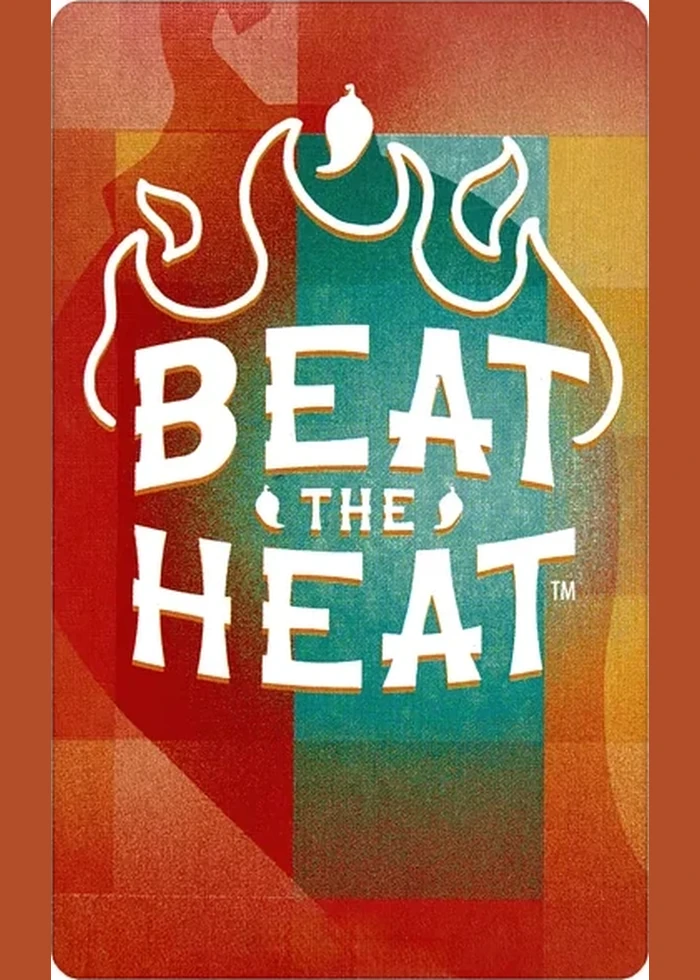
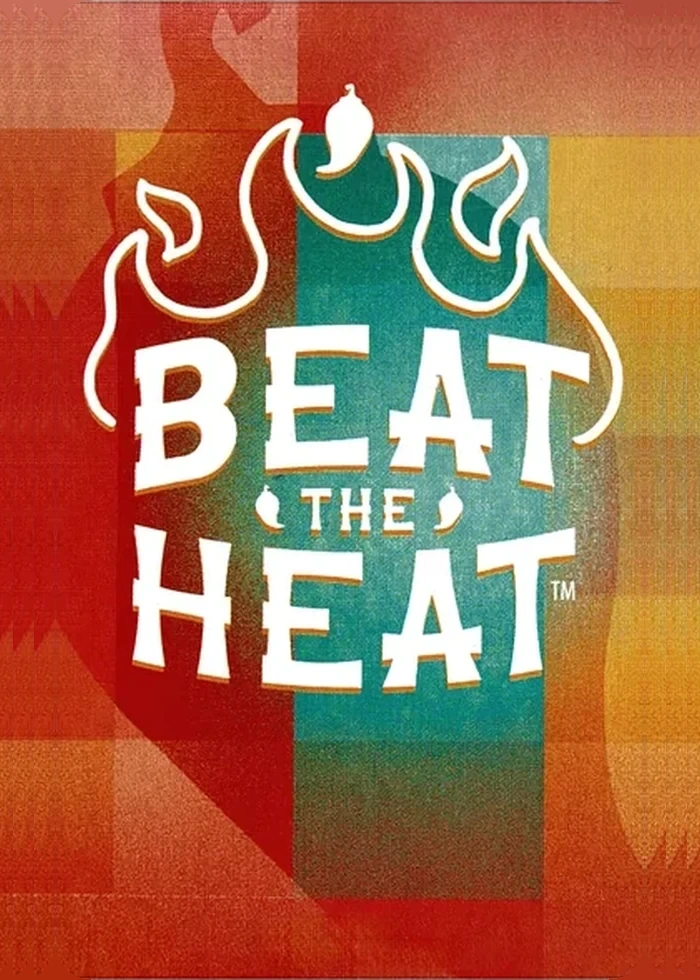
Make Rook and Heat fills the default and draw a designed Five Crowns back.
Matt asked for the edge-filled Rook and Beat the Heat faces as the picker default, leftover subject ghosts cleaned from those pads, and a clean vector Five Crowns back from his photo instead of a retouch. The cardfill flag and padded faces are gone. Five Crowns is an SVG raster at Canasta polish: purple lattice, gold-edged band, sideways mark, no copyright.

Changed region(s): [[0.87, 0.0, 1.0, 1.0], [0.0, 0.0, 0.12, 1.0]]

diff --git a/public/assets/slice2.js b/public/assets/slice2.js
@@ -1,27 +1,13 @@
 /* Warm Porch Ledger interactions. Always loaded. */
 (function () {
-  function cardFillOn() {
-    try {
-      const params = new URLSearchParams(location.search);
-      if (!params.has('cardfill')) return false;
-      const host = location.hostname || '';
-      if (host === 'cardknight.vercel.app') return false;
-      return host === 'localhost' || host === '127.0.0.1' || host === '::1'
-        || /^.+-mattwilliamsproducts-projects\.vercel\.app$/.test(host);
-    } catch (error) {
-      return false;
-    }
-  }
-
-  const CARD_FILL = cardFillOn();
   const CARD_FACES = {
     five: './assets/cards/five-crowns.webp',
     '818': './assets/cards/818.webp',
     wizard: './assets/cards/wizard.webp',
     flip7: './assets/cards/flip7.webp',
-    heat: CARD_FILL ? './assets/cards/fill/beat-the-heat.webp' : './assets/cards/beat-the-heat.webp',
+    heat: './assets/cards/beat-the-heat.webp',
     canasta: './assets/cards/canasta.webp',
-    rook: CARD_FILL ? './assets/cards/fill/rook.webp' : './assets/cards/rook.webp'
+    rook: './assets/cards/rook.webp'
   };
 
   function registryGames() {

diff --git a/scripts/fill-card-faces.py b/scripts/fill-card-faces.py
@@ -1,8 +1,8 @@
 #!/usr/bin/env python3
 """Extend Rook / Beat the Heat to a full 5:7 face without stretching.
 
-Keeps the default padded webps. Writes preview-only fills to public/assets/cards/fill/.
-Rook tiles the teal clover from a clean top sample. Heat continues edge color and grain.
+Writes cleaned 700x980 defaults. Uses only background pixels on the pads
+so subject bits (crow tail, pepper flame) do not repeat at the edge.
 """
 
 from pathlib import Path
@@ -10,7 +10,7 @@ from PIL import Image
 import numpy as np
 
 ROOT = Path(__file__).resolve().parents[1] / "public/assets/cards"
-OUT = ROOT / "fill"
+OUT = ROOT
 TARGET = (700, 980)
 
 SPECS = {
@@ -94,15 +94,16 @@ def inpaint(img, mask, radius=10, passes=3):
 
 
 def rook_bg(img):
-    lum = img.mean(axis=2)
     rgb = img.astype(np.int16)
-    dark = lum < 78
-    yellow = (rgb[:, :, 0] > 168) & (rgb[:, :, 1] > 138) & (rgb[:, :, 0] > rgb[:, :, 2] + 24)
-    return ~(dark | yellow)
+    r, g, b = rgb[:, :, 0], rgb[:, :, 1], rgb[:, :, 2]
+    teal = (g > r + 28) & (b > r + 36) & (g > 90) & (b > 120)
+    return teal
 
 
 def heat_bg(img):
-    return ~near_white(img, floor=210, spread=36)
+    lum = img.mean(axis=2)
+    subject = near_white(img, floor=188, spread=55) | (lum > 178)
+    return ~subject
 
 
 def fill_corners(content, radius, white_floor):
@@ -147,8 +148,8 @@ def extend_rook(content, src_l, src_r, period):
     canvas[:, src_l:src_r] = content
     bg = rook_bg(content)
     for y in range(h):
-        left = clean_strip(content[y, :110], bg[y, :110])
-        right = clean_strip(content[y, w - 42 :], bg[y, w - 42 :])
+        left = clean_strip(content[y, :80], bg[y, :80])
+        right = clean_strip(content[y, w - 36 :], bg[y, w - 36 :])
         extend_from_strip(canvas, y, left, 0, src_l, seam_on_right=False)
         extend_from_strip(canvas, y, right, src_r, TARGET[0], seam_on_right=True)
     return canvas
@@ -160,8 +161,8 @@ def extend_heat(content, src_l, src_r, band=20):
     canvas[:, src_l:src_r] = content
     bg = heat_bg(content)
     for y in range(h):
-        left = clean_strip(content[y, :28], bg[y, :28])
-        right = clean_strip(content[y, w - 28 :], bg[y, w - 28 :])
+        left = clean_strip(content[y, :22], bg[y, :22])
+        right = clean_strip(content[y, w - 22 :], bg[y, w - 22 :])
         extend_from_strip(canvas, y, left, 0, src_l, seam_on_right=False)
         extend_from_strip(canvas, y, right, src_r, TARGET[0], seam_on_right=True)
     return canvas
@@ -174,9 +175,20 @@ def extend(arr, spec):
     content = fill_corners(arr[top:bot, src_l:src_r].copy(), spec["radius"], spec["white_floor"])
     if spec["kind"] == "rook":
         canvas = extend_rook(content, src_l, src_r, spec["period"])
+        canvas = scrub_pad(canvas, src_l, src_r, rook_bg)
     else:
         canvas = extend_heat(content, src_l, src_r, spec["period"])
+        canvas = scrub_pad(canvas, src_l, src_r, heat_bg)
     return canvas, (src_l, src_r)
+
+
+def scrub_pad(canvas, src_l, src_r, bg_fn):
+    """Replace leftover subject pixels in the side pads with nearby background."""
+    bg = bg_fn(canvas)
+    pad = np.zeros(bg.shape, dtype=bool)
+    pad[:, :src_l] = True
+    pad[:, src_r:] = True
+    return inpaint(canvas, pad & ~bg, radius=14, passes=4)
 
 
 def save_debug(name, before, after, seams):

diff --git a/scripts/fit-card-faces.py b/scripts/fit-card-faces.py
@@ -94,7 +94,7 @@ def pad_to_target(im, fill, cover=False):
 
 FACE_OPTS = {
     "wizard.webp": {"body": "navy", "cover": True, "fill": (8, 18, 72, 255)},
-    "five-crowns.webp": {"extra_inset": (0, 0, 14, 0), "fill": (95, 47, 130, 255)},
+    "five-crowns.webp": {"designed": True},
 }
 
 
@@ -108,6 +108,11 @@ def main():
         im = Image.open(src)
         print(f"{name:22} in {im.size[0]}x{im.size[1]} {im.mode}")
         opts = FACE_OPTS.get(name, {})
+        if opts.get("designed"):
+            if im.size != TARGET:
+                raise SystemExit(f"{name} designed face is {im.size}, expected {TARGET}")
+            print(f"{name:22} designed {im.size[0]}x{im.size[1]} (no trim)")
+            continue
         trimmed = trim_card(
             im,
             keep_white=bool(opts.get("keep_white")),

diff --git a/AGENTS.md b/AGENTS.md
@@ -44,7 +44,7 @@ North star: crush requirements so one-shots get better every correction.
 - A hidden scorecard column is not a deleted hand. If Pace or the column trim removes the hand a Life Preserver followed, the mark sits with Total. Place ties use the same numeric comparison as the sort, including numeric strings. See `docs/solutions/scorecard-places-and-life-preserver.md`.
 - Life Preserver labels stay inside every slice. About 20-40 equal-ish pockets. Category shares stay exact via subtle widths; the draw still uses the live 45/30/5/12/8 table. No callouts, leader lines, or casino red/black. Cute cream/teal toy roulette, not casino chrome. Size the modal from leftover viewport so Use Your One Spin stays on screen. Proposed 30/45/10/15 amounts stay behind `?demo&lp=proposed`. See `docs/solutions/rc1-lp-roulette-wheel.md`.
 - Laptop Home columns stretch to the same height. Seats are one per row and reorder in the list. Recent nights stays full width. Home reorder writes `players` only; it does not restack an active match. See `docs/solutions/home-recent-nights-column.md`.
-- Home picker faces are upright 5:7 cards with one shared outer size, ~10px radius, and a 220px TV cap. Faces are pre-padded 5:7 webps with `object-fit: cover`. No leftover porch tiles. No name or rule under the cards. Select, then Start. Lay out the Home columns first; cards take leftover space. Tonight's Table stays wide enough for first names. The Start bar stays inside the panel. Rook / Beat the Heat edge-fill previews stay behind `?demo&cardfill=1` until Matt picks. See `docs/solutions/card-picker.md`.
+- Home picker faces are upright 5:7 cards with one shared outer size, ~10px radius, and a 220px TV cap. Faces are pre-padded 5:7 webps with `object-fit: cover`. No leftover porch tiles. No name or rule under the cards. Select, then Start. Lay out the Home columns first; cards take leftover space. Tonight's Table stays wide enough for first names. The Start bar stays inside the panel. Rook / Beat the Heat defaults are the edge-filled faces. Five Crowns is the designed SVG raster, not a retouched photo. See `docs/solutions/card-picker.md`.
 - NAME-FIT uses one shared column size. Shrink for a long name. Do not grow a short name past that size. Saved is not a nav slot. Life Preserver header copy states the computed spin range; negative slices stay.
 - Bid accuracy uses the stored bid and actual on a played round. A missing bid or actual is unknown, not a guess from the score. A Life Preserver, including a zero-point spin, marks the match assisted until undo removes the last spin. A historical trick correction uses that round's players and must not replace a different live match. See `docs/solutions/data-integrity-records.md`.
 - A cloud revision or sync redesign waits for a named ticket or PR intent. This release is local-only: the client does not call `/api/sync`. `api/sync.js` and Redis `gamenight:backup:v1` stay untouched. `#37` stays parked. See `docs/solutions/rc1-local-only.md`.

diff --git a/docs/solutions/card-picker.md b/docs/solutions/card-picker.md
@@ -7,7 +7,8 @@ Matt's Home picker is seven upright 5:7 card backs. The cards speak for themselv
 - One shared `.s2-card-frame`: same 5:7 box, 10px radius, max 220px. Faces are exact 5:7 webps (`scripts/fit-card-faces.py`) drawn with `object-fit: cover`. No under-card labels.
 - The frame does not carry `s2-art-*`. Old porch/tropical tile backgrounds stay off the picker.
 - Faces live in `public/assets/cards/*.webp`. Select, then Start.
-- Rook and Beat the Heat defaults keep the current padded faces. Extended edge-fill versions live in `public/assets/cards/fill/` and load only on localhost/preview when `cardfill` is in the query (`?demo&cardfill=1`, or gallery `?gnqa=1&cardfill=1`). Do not stretch. The frame radius is the only corner.
+- Rook and Beat the Heat defaults are the edge-filled 5:7 faces. Pads use background only (teal clover / Heat field). Do not stretch. The frame radius is the only corner.
+- Five Crowns is a designed 700×980 SVG raster (`five-crowns.svg` → `five-crowns.webp`), drawn from Matt's photo: purple lattice, gold-edged band, sideways gold-and-red FIVE CROWNS mark, no copyright. Do not retouch the photo.
 - iPad landscape 1024×768 and TV 1920×1080 are the primary layouts (landscape iPad mirrored to TV). Portrait and phone must not break.
 - Columns first, then cards. Tonight's Table is 348–360px at 1024 so first names stay whole. The seven 5:7 cards take leftover space (4+3). The Start bar stays inside Start a New Match.
 - Tonight's Table rows keep their natural height. The table scrolls when the list is long. Four seated shows every chip. The seat grid never shrinks behind chips and never uses `1fr` rows.
@@ -19,5 +20,6 @@ Matt's Home picker is seven upright 5:7 card backs. The cards speak for themselv
 - Do not reintroduce `?demo&tapstart=1`.
 - Do not use fixed 220px columns that overflow the Start panel.
 - Do not let theme thumbs or dusk tiles show through beside a card face.
-- Do not replace the default Rook / Beat the Heat faces without Matt's side-by-side pick. Solid-color side pads and source-card white corners are a kill; extend the pattern instead of stretching.
+- Do not put the old padded Rook / Beat the Heat faces back. Solid-color side pads and source-card white corners are a kill; extend the pattern instead of stretching.
+- Do not retouch or straighten Matt's Five Crowns photo. The picker face is the designed SVG.
 - Do not shrink seat rows with `1fr` so they overlap, or flex-shrink the seat grid so seated people hide behind chips.

diff --git a/docs/taste.md b/docs/taste.md
@@ -11,6 +11,7 @@ Canonical list: [taste-ledger.md](taste-ledger.md). After every durable Matt cor
 ### Likes
 
 - A picker face fills the 5:7 frame edge to edge like a real card back. If the art is narrower, extend the repeating pattern or gradient — do not stretch, and do not leave a solid side strip. The frame radius is the only corner.
+- Five Crowns on the picker is the real back drawn clean: purple lattice, gold-edged band, sideways gold-and-red FIVE CROWNS mark. Canasta sets the polish. Matt's photo is the reference, not the face.
 - Home picker faces are exact 5:7 cards with cover, and nothing from the old porch tiles peeks beside them. Seat rows keep their height and scroll. 1024 landscape and 1920 TV are the layouts that matter.
 - Matt's 12:23 PM ET go to preview Canasta (Hand and Foot) on the RC1 picker, with house rules in one `CANASTA_RULES` object and Rook hidden unless `?demo&games=rook`.
 - Full two-line Canasta team names (`Megan &` / `Matt`) with no ellipsis, and the dusk Canasta tile used in both art sets until Matt picks a beach tile.
@@ -44,6 +45,7 @@ Canonical list: [taste-ledger.md](taste-ledger.md). After every durable Matt cor
 - A Home picker grid that overflows Start a New Match, or a dead band between the cards and Start at 1024 landscape.
 - A solid-color side pad or the source card's own white rounded corners showing inside the picker frame (Rook / Beat the Heat). Extend the background; do not stretch.
 - Old porch or tropical tiles showing through beside a picker face, or a white sliver on Five Crowns.
+- Retouching or straightening Matt's Five Crowns photo for the picker. Draw the back clean. Do not ship a generic red plaque that is not the Five Crowns mark.
 - Tonight's Table seat rows that compress, overlap, clip the dealer pill, hide seated people behind chips, or truncate names to an initial.
 - Calling ready without opening the real UI.
 - Ready-to-test language without a filled [prove-it packet](prove-it-packet.md).

diff --git a/docs/taste-ledger.md b/docs/taste-ledger.md
@@ -7,6 +7,7 @@ Seeded from Prefer, Avoid, and Kill in `docs/taste.md`. Product rules stay in `d
 ## Likes
 
 - A picker face fills the 5:7 frame edge to edge like a real card back. If the art is narrower, extend the repeating pattern or gradient — do not stretch, and do not leave a solid side strip. The frame radius is the only corner.
+- Five Crowns on the picker is the real back drawn clean: purple lattice, gold-edged band, sideways gold-and-red FIVE CROWNS mark. Canasta sets the polish. Matt's photo is the reference, not the face.
 - Home picker faces are exact 5:7 cards with cover, and nothing from the old porch tiles peeks beside them. Seat rows keep their height and scroll. 1024 landscape and 1920 TV are the layouts that matter.
 - Matt's 12:23 PM ET go to preview Canasta (Hand and Foot) on the RC1 picker, with house rules in one `CANASTA_RULES` object and Rook hidden unless `?demo&games=rook`.
 - Full two-line Canasta team names (`Megan &` / `Matt`) with no ellipsis, and the dusk Canasta tile used in both art sets until Matt picks a beach tile.
@@ -40,6 +41,7 @@ Seeded from Prefer, Avoid, and Kill in `docs/taste.md`. Product rules stay in `d
 - A Home picker grid that overflows Start a New Match, or a dead band between the cards and Start at 1024 landscape.
 - A solid-color side pad or the source card's own white rounded corners showing inside the picker frame (Rook / Beat the Heat). Extend the background; do not stretch.
 - Old porch or tropical tiles showing through beside a picker face, or a white sliver on Five Crowns.
+- Retouching or straightening Matt's Five Crowns photo for the picker. Draw the back clean. Do not ship a generic red plaque that is not the Five Crowns mark.
 - Tonight's Table seat rows that compress, overlap, clip the dealer pill, hide seated people behind chips, or truncate names to an initial.
 - Calling ready without opening the real UI.
 - Ready-to-test language without a filled `docs/prove-it-packet.md`.

diff --git a/docs/tech-spec.md b/docs/tech-spec.md
@@ -89,7 +89,7 @@ There is no framework and no per-player account. State is `localStorage` on the 
 - Shelf labels may say Flip 7. Stored game name is `Flip 7 Vengeance`.
 - Shelf labels say Canasta. Stored game name is `Hand and Foot`.
 - Rook is on the shelf (`hidden: false`). History still opens a saved Rook match.
-- Home picker faces live in `public/assets/cards/*.webp`. Shared outer size is 5:7 with a 10px radius and a 220px TV cap. Faces use `object-fit: cover`. Extended Rook / Beat the Heat fills live in `public/assets/cards/fill/` and load only when `cardfill` is on a localhost or preview host. Select then Start. No name under the cards.
+- Home picker faces live in `public/assets/cards/*.webp`. Shared outer size is 5:7 with a 10px radius and a 220px TV cap. Faces use `object-fit: cover`. Rook and Beat the Heat defaults are the edge-filled faces. Five Crowns is rasterized from `public/assets/cards/five-crowns.svg`. Select then Start. No name under the cards.
 - Home-screen short name is Back Porch. Manifest name is Back Porch Games.
 - Cloud sync is off this release. The Redis function stays shipped and unused.
 - `npm run check` fails if `index.html` loads `comeback-logic.js`, if the worker template disagrees with the scripts the page loads, or if the template `CACHE_NAME` loses `__BACK_PORCH_RELEASE__` or the `back-porch-shell-` prefix.

diff --git a/docs/solutions/gate-log.md b/docs/solutions/gate-log.md
@@ -104,3 +104,4 @@ The table starts with a header and one example row. The example is the format. I
 | 2026-10-28 | #78-1024 | taste_ui. 1024 table width for first names. Start inside panel. Even columns. Wizard/Five Crowns edges. | 3 | n/a | fallback | Gate C. Conservative. Check pass. Functional 161/161. Porch-night 2/2. Looked 1024 and 1920 with 4 and 8 seated, then 768/390/375. Draft only. Do not undraft or merge. |
 | 2026-10-28 | #78-cardfill | taste_ui. Rook/Heat edge-fill behind ?demo&cardfill=1. No stretch. Defaults stay. Matt pick. | 3 | n/a | fallback | Gate B. Proceed on draft PR #78. Do not undraft or merge. |
 | 2026-10-28 | #78-cardfill | taste_ui. Rook/Heat edge-fill behind ?demo&cardfill=1. No stretch. Defaults stay. Matt pick. | 3 | n/a | fallback | Gate C. Conservative. Check pass. card-picker Playwright 7/7. Looked 136×190 before/after + 2× seams and 1024 Home with fill on. Draft only. Do not undraft or merge. |
+| 2026-10-28 | #78-faces-default | taste_ui. Rook/Heat fills become default. Designed Five Crowns SVG from Matt photo. No photo retouch. | 3 | n/a | fallback | Gate B. Proceed on draft PR #78. Do not undraft or merge. |

diff --git a/docs/solutions/README.md b/docs/solutions/README.md
@@ -48,4 +48,4 @@ Standing trap: [home-seat-reorder.md](home-seat-reorder.md) — Home reorder wri
 
 Standing trap: [canasta-on-rc1.md](canasta-on-rc1.md) — shelf says Canasta, saved id stays Hand and Foot. `.hf-rate-bar.hidden` must stay `display:none` so Canasta rates do not leak onto other games.
 
-Standing trap: [card-picker.md](card-picker.md) — Exact 5:7 faces with cover. No leftover porch tiles. Seat rows keep their height and scroll. 1024 landscape and 1920 are the primary layouts. Select then Start. Rook / Beat the Heat edge-fill stays behind `?demo&cardfill=1` until Matt picks.
+Standing trap: [card-picker.md](card-picker.md) — Exact 5:7 faces with cover. No leftover porch tiles. Seat rows keep their height and scroll. 1024 landscape and 1920 are the primary layouts. Select then Start. Rook / Beat the Heat defaults are the edge-filled faces. Five Crowns is the designed SVG, not a retouched photo. See [five-crowns-designed-back.md](five-crowns-designed-back.md).

diff --git a/docs/solutions/five-crowns-designed-back.md b/docs/solutions/five-crowns-designed-back.md
@@ -1,0 +1,9 @@
+# Five Crowns designed back
+
+Matt's photo is the reference for the real Five Crowns back. It is not the picker face.
+
+The Home face is a clean 700×980 SVG raster (`public/assets/cards/five-crowns.svg` → `five-crowns.webp`). Canasta sets the polish: flat color, crisp type, edge to edge, no photo grain. The mark still has to read as Five Crowns: deep purple lattice, lighter-purple gold-edged band, sideways gold-and-red FIVE CROWNS logo with the crown cluster on the left. No copyright. The tagline stays off unless it is crisp at 2×.
+
+Do not retouch, warp, or straighten the photo. Do not run `fit-card-faces.py` on this face; it is already 5:7.
+
+Rook and Beat the Heat defaults are the edge-filled faces. Pads use background only so a crow tail or pepper flame does not repeat at the edge.
